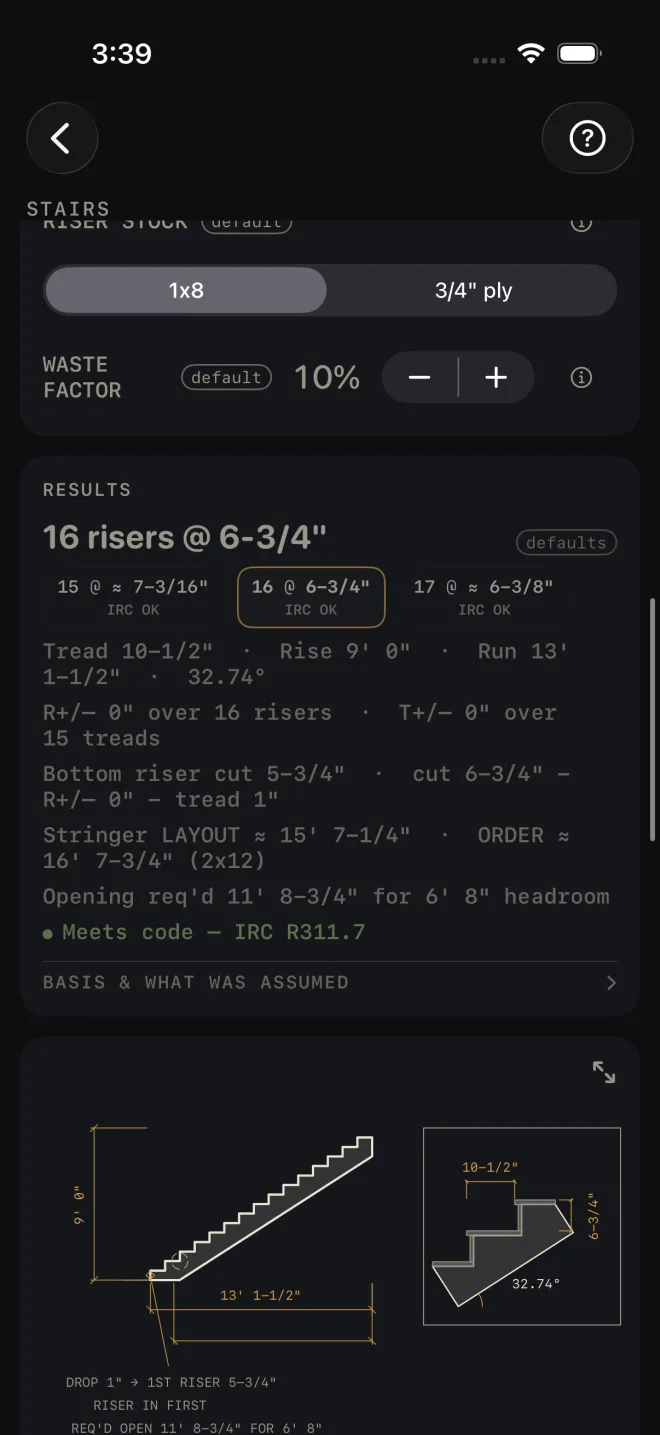
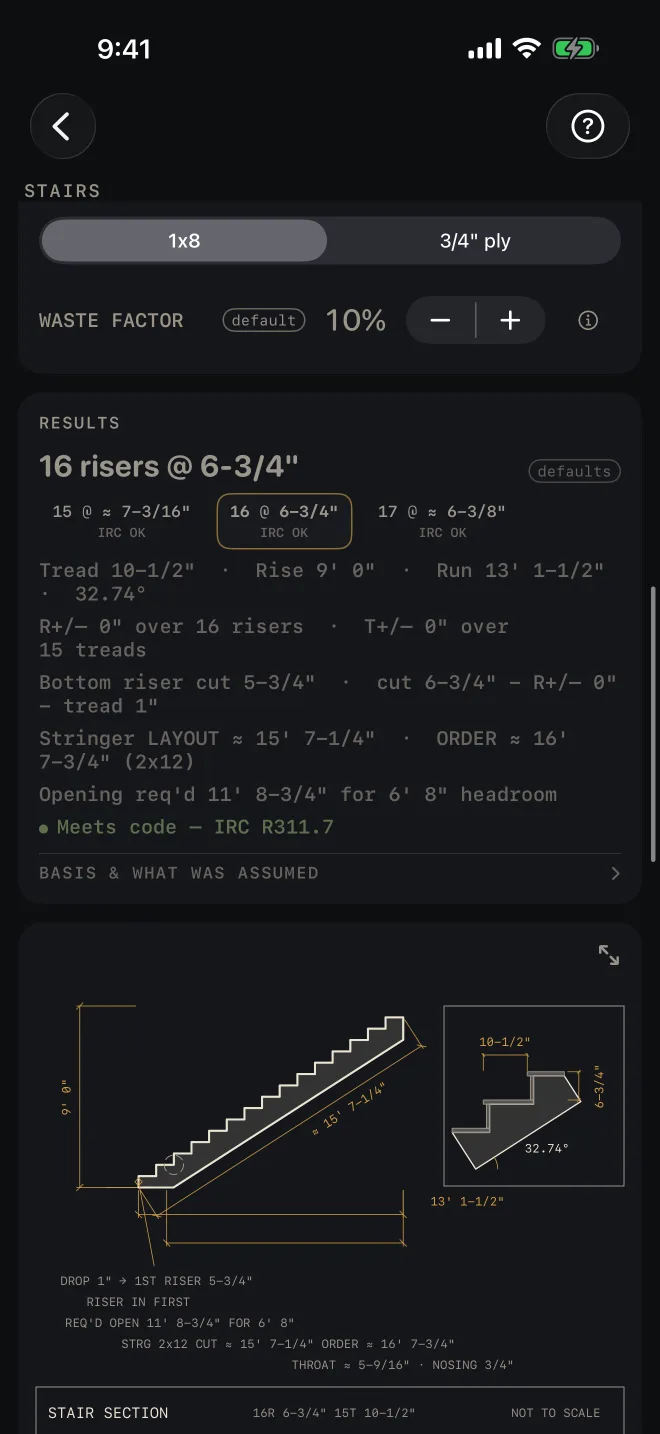
Publish housewright-website d427186 — animated stair stringer dimension, rafter + help shots re-captured
Claude-Session: https://claude.ai/code/session_01GJNo3oqpfx9jL3T2uHEbGi

diff --git a/calc/index.html b/calc/index.html
@@ -108,15 +108,17 @@
     <div class="sheet-head"><b>A-1.3</b><span>Drawings and code checks</span></div>
     <div class="cols">
       <div style="grid-column:span 7"><div class="drafting" id="stair">
-        <svg viewBox="60 20 560 400" role="img" aria-label="A stair stringer drawn to scale: 16 risers at 6-3/4 inches, 9 feet of rise, 13 feet 1-1/2 inches of run, with an open-riser code check flagged in red">
+        <svg viewBox="60 20 560 400" role="img" aria-label="A stair stringer drawn to scale: 16 risers at 6-3/4 inches, 9 feet of rise, 13 feet 1-1/2 inches of run, with the stringer length dimensioned along the stringer and an open-riser code check flagged in red">
           <path class="fill late" style="--d:1.9s" d="M150.0,330.0 150.0,312.4 177.3,312.4 177.3,294.9 204.6,294.9 204.6,277.3 231.9,277.3 231.9,259.8 259.2,259.8 259.2,242.2 286.5,242.2 286.5,224.7 313.8,224.7 313.8,207.1 341.1,207.1 341.1,189.6 368.4,189.6 368.4,172.0 395.7,172.0 395.7,154.5 423.0,154.5 423.0,136.9 450.3,136.9 450.3,119.4 477.6,119.4 477.6,101.8 504.9,101.8 504.9,84.3 532.2,84.3 532.2,66.7 559.5,66.7 559.5,49.2 L559.5,83.9 L176.7,330.0 Z"/>
           <path class="ink draw" pathLength="1" d="M150.0,330.0 150.0,312.4 177.3,312.4 177.3,294.9 204.6,294.9 204.6,277.3 231.9,277.3 231.9,259.8 259.2,259.8 259.2,242.2 286.5,242.2 286.5,224.7 313.8,224.7 313.8,207.1 341.1,207.1 341.1,189.6 368.4,189.6 368.4,172.0 395.7,172.0 395.7,154.5 423.0,154.5 423.0,136.9 450.3,136.9 450.3,119.4 477.6,119.4 477.6,101.8 504.9,101.8 504.9,84.3 532.2,84.3 532.2,66.7 559.5,66.7 559.5,49.2 L559.5,83.9 L176.7,330.0 Z"/>
           <g class="d">
             <path class="draw" pathLength="1" style="--t:.9s;--d:1.7s" d="M110,330 V49.2"/><path class="late" style="--d:1.7s" d="M98,330h52M98,49.2h60M106,334l8-8M106,53.200l8-8"/>
             <path class="draw" pathLength="1" style="--t:.9s;--d:2.1s" d="M150,366 H559.5"/><path class="late" style="--d:2.1s" d="M150,338v40M559.5,338v40M146,370l8-8M555.500,370l8-8"/>
+            <path class="draw" pathLength="1" style="--t:1.1s;--d:2.3s" d="M167.0,354.7 L576.5,73.9"/><path class="late" style="--d:2.3s" d="M152.3,333.3 L169.2,358.0 M561.8,52.5 L578.7,77.2 M163.0,358.7l8,-8 M572.5,77.9l8,-8"/>
           </g>
           <text class="late" style="--d:2.4s" x="104" y="196" text-anchor="middle" transform="rotate(-90 104 196)">9' 0"</text>
           <text class="late" style="--d:2.7s" x="355" y="360" text-anchor="middle">13' 1-1/2"</text>
+          <text class="late" style="--d:2.8s" x="459.3" y="170.4" text-anchor="middle" transform="rotate(-34.44 459.3 170.4)">≈ 15' 7-1/4"</text>
           <text class="n late" style="--d:2.9s" x="132" y="86">16 RISERS @ 6-3/4"</text><text class="n late" style="--d:2.9s" x="132" y="103">15 TREADS @ 10-1/2" · 32.74°</text>
           <g class="late flagpulse" style="--d:3.2s"><circle cx="304" cy="289" r="3" fill="var(--flag)"/><text class="flag" x="314" y="293">OPEN RISER GAP 5.75" PASSES A 4" SPHERE</text><text class="flag" x="314" y="310">IRC R311.7.5.1 — CLOSE THE RISERS</text></g>
           <rect class="tb late" style="--d:3s" x="70" y="386" width="540" height="26"/><text class="tbt late" style="--d:3s" x="82" y="403">STAIR SECTION</text><text class="n late" style="--d:3s" x="600" y="403" text-anchor="end">NOT TO SCALE</text>

diff --git a/index.html b/index.html
@@ -80,15 +80,17 @@
   <div class="wrap" style="margin-top:clamp(80px,10vw,150px)">
     <div class="cols">
       <div style="grid-column:span 7"><div class="drafting" id="stair">
-        <svg viewBox="60 20 560 400" role="img" aria-label="A stair stringer drawn to scale: 16 risers at 6-3/4 inches, 9 feet of rise, 13 feet 1-1/2 inches of run, with an open-riser code check flagged in red">
+        <svg viewBox="60 20 560 400" role="img" aria-label="A stair stringer drawn to scale: 16 risers at 6-3/4 inches, 9 feet of rise, 13 feet 1-1/2 inches of run, with the stringer length dimensioned along the stringer and an open-riser code check flagged in red">
           <path class="fill late" style="--d:1.9s" d="M150.0,330.0 150.0,312.4 177.3,312.4 177.3,294.9 204.6,294.9 204.6,277.3 231.9,277.3 231.9,259.8 259.2,259.8 259.2,242.2 286.5,242.2 286.5,224.7 313.8,224.7 313.8,207.1 341.1,207.1 341.1,189.6 368.4,189.6 368.4,172.0 395.7,172.0 395.7,154.5 423.0,154.5 423.0,136.9 450.3,136.9 450.3,119.4 477.6,119.4 477.6,101.8 504.9,101.8 504.9,84.3 532.2,84.3 532.2,66.7 559.5,66.7 559.5,49.2 L559.5,83.9 L176.7,330.0 Z"/>
           <path class="ink draw" pathLength="1" d="M150.0,330.0 150.0,312.4 177.3,312.4 177.3,294.9 204.6,294.9 204.6,277.3 231.9,277.3 231.9,259.8 259.2,259.8 259.2,242.2 286.5,242.2 286.5,224.7 313.8,224.7 313.8,207.1 341.1,207.1 341.1,189.6 368.4,189.6 368.4,172.0 395.7,172.0 395.7,154.5 423.0,154.5 423.0,136.9 450.3,136.9 450.3,119.4 477.6,119.4 477.6,101.8 504.9,101.8 504.9,84.3 532.2,84.3 532.2,66.7 559.5,66.7 559.5,49.2 L559.5,83.9 L176.7,330.0 Z"/>
           <g class="d">
             <path class="draw" pathLength="1" style="--t:.9s;--d:1.7s" d="M110,330 V49.2"/><path class="late" style="--d:1.7s" d="M98,330h52M98,49.2h60M106,334l8-8M106,53.200l8-8"/>
             <path class="draw" pathLength="1" style="--t:.9s;--d:2.1s" d="M150,366 H559.5"/><path class="late" style="--d:2.1s" d="M150,338v40M559.5,338v40M146,370l8-8M555.500,370l8-8"/>
+            <path class="draw" pathLength="1" style="--t:1.1s;--d:2.3s" d="M167.0,354.7 L576.5,73.9"/><path class="late" style="--d:2.3s" d="M152.3,333.3 L169.2,358.0 M561.8,52.5 L578.7,77.2 M163.0,358.7l8,-8 M572.5,77.9l8,-8"/>
           </g>
           <text class="late" style="--d:2.4s" x="104" y="196" text-anchor="middle" transform="rotate(-90 104 196)">9' 0"</text>
           <text class="late" style="--d:2.7s" x="355" y="360" text-anchor="middle">13' 1-1/2"</text>
+          <text class="late" style="--d:2.8s" x="459.3" y="170.4" text-anchor="middle" transform="rotate(-34.44 459.3 170.4)">≈ 15' 7-1/4"</text>
           <text class="n late" style="--d:2.9s" x="132" y="86">16 RISERS @ 6-3/4"</text><text class="n late" style="--d:2.9s" x="132" y="103">15 TREADS @ 10-1/2" · 32.74°</text>
           <g class="late flagpulse" style="--d:3.2s"><circle cx="304" cy="289" r="3" fill="var(--flag)"/><text class="flag" x="314" y="293">OPEN RISER GAP 5.75" PASSES A 4" SPHERE</text><text class="flag" x="314" y="310">IRC R311.7.5.1 — CLOSE THE RISERS</text></g>
           <rect class="tb late" style="--d:3s" x="70" y="386" width="540" height="26"/><text class="tbt late" style="--d:3s" x="82" y="403">STAIR SECTION</text><text class="n late" style="--d:3s" x="600" y="403" text-anchor="end">NOT TO SCALE</text>

diff --git a/calc/help/more/free-and-pro.html b/calc/help/more/free-and-pro.html
@@ -16,10 +16,13 @@ subscription, and there are no ads in either version.</p>
       parentheses and memory, <a href="../tools/equal-parts.html">equal parts</a>,
       <a href="../tools/pythagoras.html">diagonal</a> and <a href="../tools/voice-entry.html">voice entry</a></li>
   <li><a href="../calculators/material-converter.html">Unit Converter</a></li>
-  <li><a href="../calculators/framing.html">Framing</a></li>
-  <li><a href="../calculators/concrete.html">Concrete</a></li>
-  <li><a href="../calculators/rough-opening.html">Rough Opening</a></li>
+  <li><a href="../calculators/framing.html">Framing</a> — results and materials</li>
+  <li><a href="../calculators/concrete.html">Concrete</a> — results and materials</li>
+  <li><a href="../calculators/rough-opening.html">Rough Opening</a> — results and materials</li>
 </ul>
+<p>On those three, the drawing pane shows a Pro card in place of the drawing. Tap <span class="label">UNLOCK
+PRO</span> on it, on the banner at the top of the drawer, or on the last page of the first-run tour to open the
+purchase screen. Those three places are the only ones that mention Pro unasked; there are no other ads.</p>
 <p>Also free: <a href="../tools/field-mode.html">Field mode</a>, <a href="../tools/laser.html">laser pairing</a>,
 <a href="../tools/siri.html">Siri</a>, and this help — every guide, including the guides for calculators you have
 not unlocked.</p>
@@ -28,6 +31,7 @@ not unlocked.</p>
 <ul>
   <li><strong>Every other calculator.</strong> Pro opens all 34 calculators. In the drawer, a calculator that
       needs Pro shows a small lock.</li>
+  <li><strong>The drawing</strong> — on every calculator that draws, the free ones included.</li>
   <li><strong>Cut sheet and PDF export</strong> — on every calculator, the free ones included. See
       <a href="../tools/cut-sheets-and-templates.html">Cut sheets and templates</a>.</li>
   <li><strong>The cut list on the Lock Screen.</strong> See

diff --git a/calc/help/calculators/concrete.html b/calc/help/calculators/concrete.html
@@ -86,8 +86,9 @@ code.</p>
       alternative, rebar in lineal feet, and mesh sheets when mesh is on.</li>
 </ol>
 <p>There are no red flags on this screen. Nothing here is a pass or a fail.</p>
-<div class="note">The Concrete calculator is free. <strong>SHARE PDF</strong> and <strong>SAVE</strong> are
-part of Pro, a one-time purchase. <strong>SHARE PDF</strong> and the list icon at its right end stay dim until you have
+<div class="note">The Concrete calculator's results and materials are free. The drawing, <strong>SHARE PDF</strong>
+and <strong>SAVE</strong> are part of Pro, a one-time purchase — without Pro the drawing pane shows a Pro card
+instead. <strong>SHARE PDF</strong> and the list icon at its right end stay dim until you have
 entered your own measurements, so a sheet of sample numbers never reaches a job. <strong>SAVE</strong> stays lit, but until then a tap only answers <strong>Enter your job's numbers first</strong>
 and saves nothing.</div>
 

diff --git a/calc/help/calculators/rough-opening.html b/calc/help/calculators/rough-opening.html
@@ -75,8 +75,9 @@ one</strong>. <span class="label">SAVE</span> stays lit, but until then a tap on
 the material list alone, <span class="label">SAVE</span> puts the result in History,
 <span class="label">CUT LIST</span> starts the list on the Lock Screen and <span class="label">SEND LIST</span>
 sends a checkable list to someone else's phone.</p>
-<div class="note">Rough Opening itself is free. The cut sheet, the cut list on the Lock Screen, sending a
-list and History are Pro, a one-time purchase. See <a href="../more/free-and-pro.html">Free and Pro</a>.</div>
+<div class="note">Rough Opening's results and materials are free. The drawing, the cut sheet, the cut list on the
+Lock Screen, sending a list and History are Pro, a one-time purchase — without Pro the drawing pane shows a Pro
+card instead. See <a href="../more/free-and-pro.html">Free and Pro</a>.</div>
 
 <h2 id="mistakes">Common mistakes</h2>
 <ul>

diff --git a/calc/help/calculators/framing.html b/calc/help/calculators/framing.html
@@ -83,8 +83,9 @@ under those rows names the table.</p>
       list on the Lock Screen and <span class="label">SEND LIST</span> sends a checkable list to another
       phone.</li>
 </ol>
-<div class="note">Framing is free. The cut sheet, cut list, send list and History buttons are part of Pro, a
-one-time purchase. See <a href="../more/free-and-pro.html">Free and Pro</a>.</div>
+<div class="note">Framing's results and materials are free. The drawing, the cut sheet, cut list, send list and
+History buttons are part of Pro, a one-time purchase — without Pro the drawing pane shows a Pro card instead.
+See <a href="../more/free-and-pro.html">Free and Pro</a>.</div>
 
 <h2 id="mistakes">Common mistakes</h2>
 <ul>
